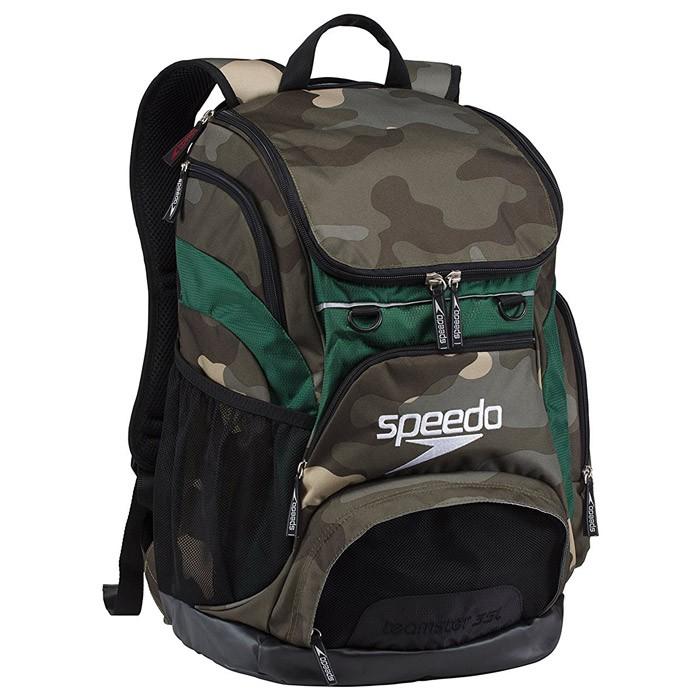
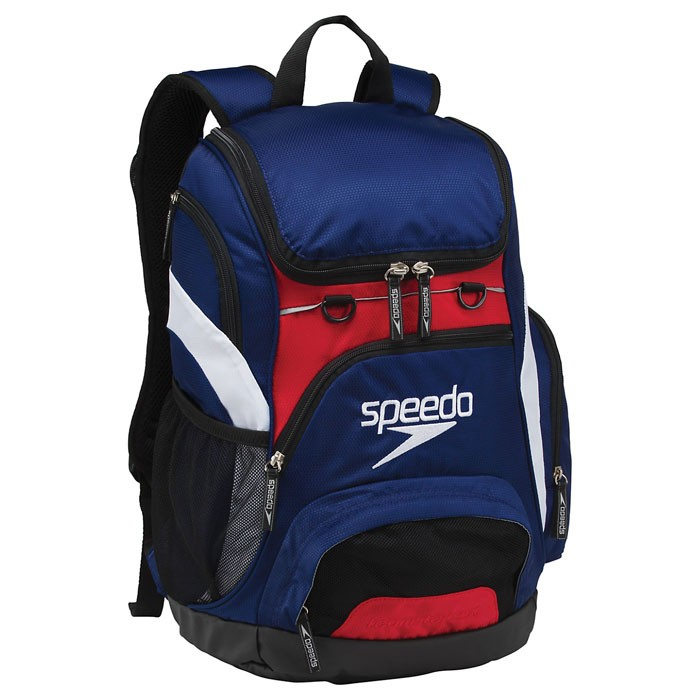
little update

diff --git a/jammers_main.html b/jammers_main.html
@@ -54,6 +54,20 @@
          </div>
          <div class="container">
             <div class="cards">
+            	<div class="card">
+                  <a rel="simplebox" href="img/jammers_all/adidas1.jpg">
+                  <span class="card-header" style="background-image: url(img/jammers_all/adidas1.jpg);" title="Нажмите для увеличения">
+                  </span>
+               </a>
+                  <span class="card-summary">
+                     <p class="name_product">Adidas Adizero XVI<br>Freestyle<br> Jammer</p>
+                     <p class="nal">В НАЛИЧИИ</p>
+                     <p class="code_product">Код товара: <strong>AAJ001</strong></p>
+                     <p class="prise_pre">Цена: ₴4000</p>
+                     <p class="size">Размеры: <strong>UK26</strong></p>
+                     <a href="https://goo.gl/forms/t2x9VHc2gxFzGruD3" target="_blank" class="action-button shadow animate red">Оформить заказ</a>
+                  </span>
+               </div>
                <div class="card">
                   <a rel="simplebox" href="img/jammers_all/arena1.jpg">
                   <span class="card-header" style="background-image: url(img/jammers_all/arena3.jpg);" title="Нажмите для увеличения">
@@ -82,44 +96,30 @@
                   </span>
                </div>
                <div class="card">
-                  <a rel="simplebox" href="img/jammers_all/arena2.jpg">
-                  <span class="card-header" style="background-image: url(img/jammers_all/arena2.jpg);" title="Нажмите для увеличения">
+                  <a rel="simplebox" href="img/jammers_all/sp11.jpg">
+                  <span class="card-header" style="background-image: url(img/jammers_all/sp11.jpg);" title="Нажмите для увеличения">
                   </span>
-               </a>
+                  </a>
                   <span class="card-summary">
-                     <p class="name_product">Arena Powerskin<br>Carbon Ultra <br>Full Body</p>
-                     <p class="nal">В НАЛИЧИИ</p>
-                     <p class="code_product">Код товара: <strong>ACJ002</strong></p>
-                     <p class="prise_pre">Цена: ₴8000</p>
-                     <p class="size">Размеры: <strong>UK28</strong></p>
+                     <p class="name_product">Speedo LZR Racer Elite 2 Jammers  Magenta / Orange</p>
+                     <p class="code_product">Код товара: <strong>SPJ011</strong></p>
+                     <p class="prise_pre">Цена по предзаказу: ₴5300</p>
+                     <p class="prise_notpre">Цена без предзаказа: ₴5500</p>
+                     <p class="size">Размеры: <strong>20 / 22 / 24<br> 26 / 28 / 30</strong></p>
                      <a href="https://goo.gl/forms/t2x9VHc2gxFzGruD3" target="_blank" class="action-button shadow animate red">Оформить заказ</a>
                   </span>
                </div>
                <div class="card">
-                  <a rel="simplebox" href="img/jammers_all/adidas1.jpg">
-                  <span class="card-header" style="background-image: url(img/jammers_all/adidas1.jpg);" title="Нажмите для увеличения">
+                  <a rel="simplebox" href="img/jammers_all/sp12.jpg">
+                  <span class="card-header" style="background-image: url(img/jammers_all/sp12.jpg);" title="Нажмите для увеличения">
                   </span>
-               </a>
+                  </a>
                   <span class="card-summary">
-                     <p class="name_product">Adidas<br> Adizero XVI<br>Freestyle<br> Jammer</p>
-                     <p class="nal">В НАЛИЧИИ</p>
-                     <p class="code_product">Код товара: <strong>AAJ001</strong></p>
-                     <p class="prise_pre">Цена: ₴4000</p>
-                     <p class="size">Размеры: <strong>UK26</strong></p>
-                     <a href="https://goo.gl/forms/t2x9VHc2gxFzGruD3" target="_blank" class="action-button shadow animate red">Оформить заказ</a>
-                  </span>
-               </div>
-               <div class="card">
-                  <a rel="simplebox" href="img/jammers_all/head1.jpg">
-                  <span class="card-header" style="background-image: url(img/jammers_all/head1.jpg);" title="Нажмите для увеличения">
-                  </span>
-               </a>
-                  <span class="card-summary">
-                     <p class="name_product">Head<br> Liquid<br> Fire<br>Jammer</p>
-                     <p class="nal">В НАЛИЧИИ</p>
-                     <p class="code_product">Код товара: <strong>HLJ001</strong></p>
-                     <p class="prise_pre">Цена: ₴1200</p>
-                     <p class="size">Размеры: <strong>UK28</strong></p>
+                     <p class="name_product">Speedo LZR Racer Elite 2 Jammers Violet / Siren Red</p>
+                     <p class="code_product">Код товара: <strong>SPJ012</strong></p>
+                     <p class="prise_pre">Цена по предзаказу: ₴5300</p>
+                     <p class="prise_notpre">Цена без предзаказа: ₴5500</p>
+                     <p class="size">Размеры: <strong>20 / 22 / 24<br> 26 / 28 / 30</strong></p>
                      <a href="https://goo.gl/forms/t2x9VHc2gxFzGruD3" target="_blank" class="action-button shadow animate red">Оформить заказ</a>
                   </span>
                </div>
@@ -129,7 +129,7 @@
                   </span>
                   </a>
                   <span class="card-summary">
-                     <p class="name_product">Speedo LZR Racer Elite 2 (Высокая талия) <br>New Surf / Bali Blue</p>
+                     <p class="name_product">Speedo LZR Racer Elite 2  <br>New Surf / Bali Blue</p>
                      <p class="code_product">Код товара: <strong>SPJ001</strong></p>
                      <p class="prise_pre">Цена по предзаказу: ₴5100</p>
                      <p class="prise_notpre">Цена без предзаказа: ₴5700</p>

diff --git a/rusk_sacks_p2.html b/rusk_sacks_p2.html
@@ -237,28 +237,15 @@
                   </span>
                </div>
                <div class="card">
-                  <a rel="simplebox" href="img/rusk_sacks_speedo/rs1.png">
-                  <span class="card-header" style="background-image: url(img/rusk_sacks_speedo/rs1.png);" title="Нажмите для увеличения">
+                  <a rel="simplebox" href="img/rusk_sacks_speedo/rs15.jpg">
+                  <span class="card-header" style="background-image: url(img/rusk_sacks_speedo/rs15.jpg);" title="Нажмите для увеличения">
                   </span>
                </a>
                   <span class="card-summary">
-                     <p class="name_product">Speedo Teamster Rucksack 35L Digi Camo / Red / White </p>
-                     <p class="code_product">Код товара: <strong>RS001</strong></p>
-                     <p class="prise_pre">Цена по предзаказу: ₴1750</p>
-                     <p class="prise_notpre">Цена без предзаказа: ₴1800</p>
-                     <a href="https://goo.gl/forms/t2x9VHc2gxFzGruD3" target="_blank" class="action-button shadow animate red">Оформить заказ</a>
-                  </span>
-               </div>
-               <div class="card">
-                  <a rel="simplebox" href="img/rusk_sacks_speedo/rs2.jpg">
-                  <span class="card-header" style="background-image: url(img/rusk_sacks_speedo/rs2.jpg);" title="Нажмите для увеличения">
-                  </span>
-               </a>
-                  <span class="card-summary">
-                     <p class="name_product">Speedo Teamster Rucksack 35L Digi Camo / Grey</p>
-                     <p class="code_product">Код товара: <strong>RS002</strong></p>
-                     <p class="prise_pre">Цена по предзаказу: ₴1750</p>
-                     <p class="prise_notpre">Цена без предзаказа: ₴1800</p>
+                     <p class="name_product">Speedo Teamster Rucksack 35L  Tie Dye Turquoise</p>
+                     <p class="code_product">Код товара: <strong>RS015</strong></p>
+                     <p class="prise_pre">Цена по предзаказу: ₴2100</p>
+                     <p class="prise_notpre">Цена без предзаказа: ₴2200</p>
                      <a href="https://goo.gl/forms/t2x9VHc2gxFzGruD3" target="_blank" class="action-button shadow animate red">Оформить заказ</a>
                   </span>
                </div>
@@ -268,10 +255,10 @@
                   </span>
                </a>
                   <span class="card-summary">
-                     <p class="name_product">Speedo Teamster Rucksack 35L Camo / Forest green</p>
+                     <p class="name_product">Speedo Teamster Rucksack 35L Blue / Red</p>
                      <p class="code_product">Код товара: <strong>RS003</strong></p>
-                     <p class="prise_pre">Цена по предзаказу: ₴1750</p>
-                     <p class="prise_notpre">Цена без предзаказа: ₴1800</p>
+                     <p class="prise_pre">Цена по предзаказу: ₴1800</p>
+                     <p class="prise_notpre">Цена без предзаказа: ₴1900</p>
                      <a href="https://goo.gl/forms/t2x9VHc2gxFzGruD3" target="_blank" class="action-button shadow animate red">Оформить заказ</a>
                   </span>
                </div>

diff --git a/fins_main.html b/fins_main.html
@@ -139,6 +139,48 @@
                   </span>
                </div>
                <div class="card">
+                  <a rel="simplebox" href="img/fins_allbrands/aft7.jpg">
+                  <span class="card-header" style="background-image: url(img/fins_allbrands/aft7.jpg);" title="Нажмите для увеличения">
+                  </span>
+               </a>
+                  <span class="card-summary">
+                     <p class="name_product">Arena Tech Fin <br>Pink</p>
+                     <p class="code_product">Код товара: <strong>AFT007</strong></p>
+                     <p class="prise_pre">Цена по предзаказу: ₴1250</p>
+                     <p class="prise_notpre">Цена без предзаказа: ₴1300</p>
+                     <p class="size">Размеры: <strong>36-37 / 38-39 / 40-41 <br>42-43 / 44-45 </strong></p>
+                     <a href="https://goo.gl/forms/t2x9VHc2gxFzGruD3" target="_blank" class="action-button shadow animate red">Оформить заказ</a>
+                  </span>
+               </div>
+               <div class="card">
+                  <a rel="simplebox" href="img/fins_allbrands/aft8.jpg">
+                  <span class="card-header" style="background-image: url(img/fins_allbrands/aft8.jpg);" title="Нажмите для увеличения">
+                  </span>
+               </a>
+                  <span class="card-summary">
+                     <p class="name_product">Arena Tech Fin <br>Green</p>
+                     <p class="code_product">Код товара: <strong>AFT008</strong></p>
+                     <p class="prise_pre">Цена по предзаказу: ₴1250</p>
+                     <p class="prise_notpre">Цена без предзаказа: ₴1300</p>
+                     <p class="size">Размеры: <strong>36-37 / 38-39 / 40-41 <br>42-43 / 44-45 </strong></p>
+                     <a href="https://goo.gl/forms/t2x9VHc2gxFzGruD3" target="_blank" class="action-button shadow animate red">Оформить заказ</a>
+                  </span>
+               </div>
+               <div class="card">
+                  <a rel="simplebox" href="img/fins_allbrands/aft9.jpg">
+                  <span class="card-header" style="background-image: url(img/fins_allbrands/aft9.jpg);" title="Нажмите для увеличения">
+                  </span>
+               </a>
+                  <span class="card-summary">
+                     <p class="name_product">Arena Tech Fin <br>Black</p>
+                     <p class="code_product">Код товара: <strong>AFT009</strong></p>
+                     <p class="prise_pre">Цена по предзаказу: ₴1250</p>
+                     <p class="prise_notpre">Цена без предзаказа: ₴1300</p>
+                     <p class="size">Размеры: <strong>36-37 / 38-39 / 40-41 <br>42-43 / 44-45 </strong></p>
+                     <a href="https://goo.gl/forms/t2x9VHc2gxFzGruD3" target="_blank" class="action-button shadow animate red">Оформить заказ</a>
+                  </span>
+               </div>
+               <div class="card">
                   <a rel="simplebox" href="img/fins_allbrands/sft1.jpg">
                   <span class="card-header" style="background-image: url(img/fins_allbrands/sft1.jpg);" title="Нажмите для увеличения">
                   </span>
